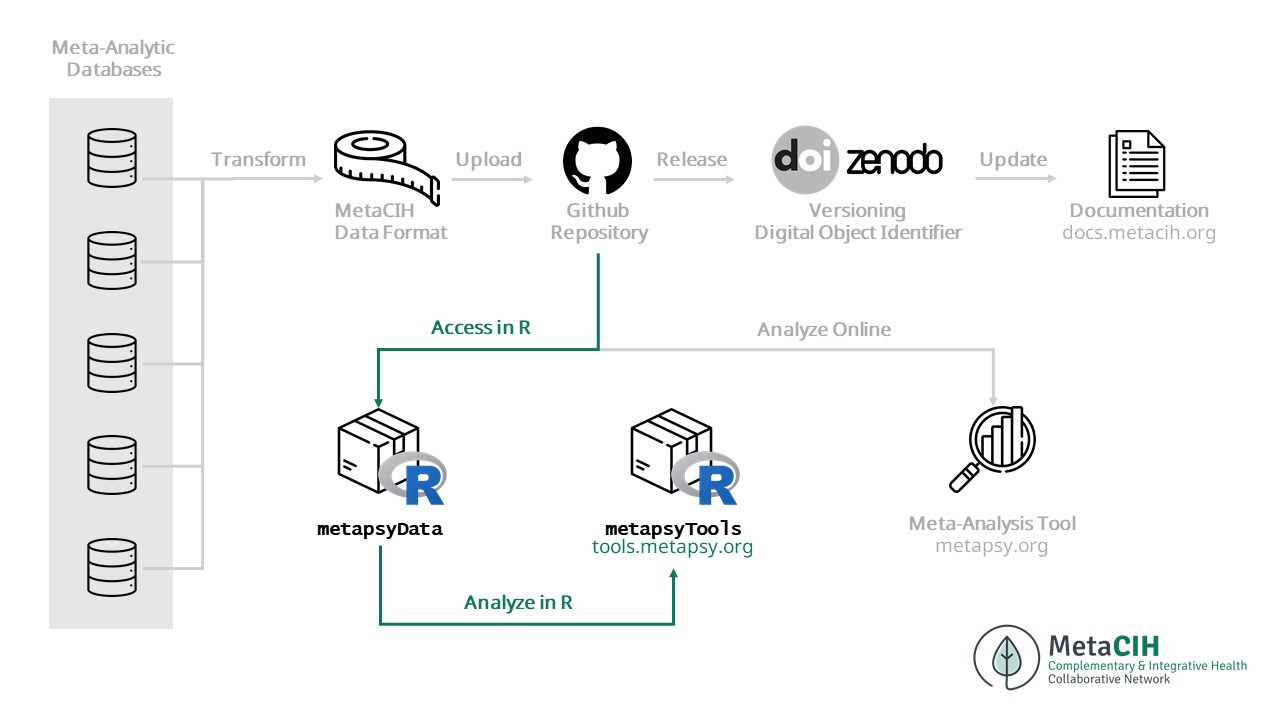
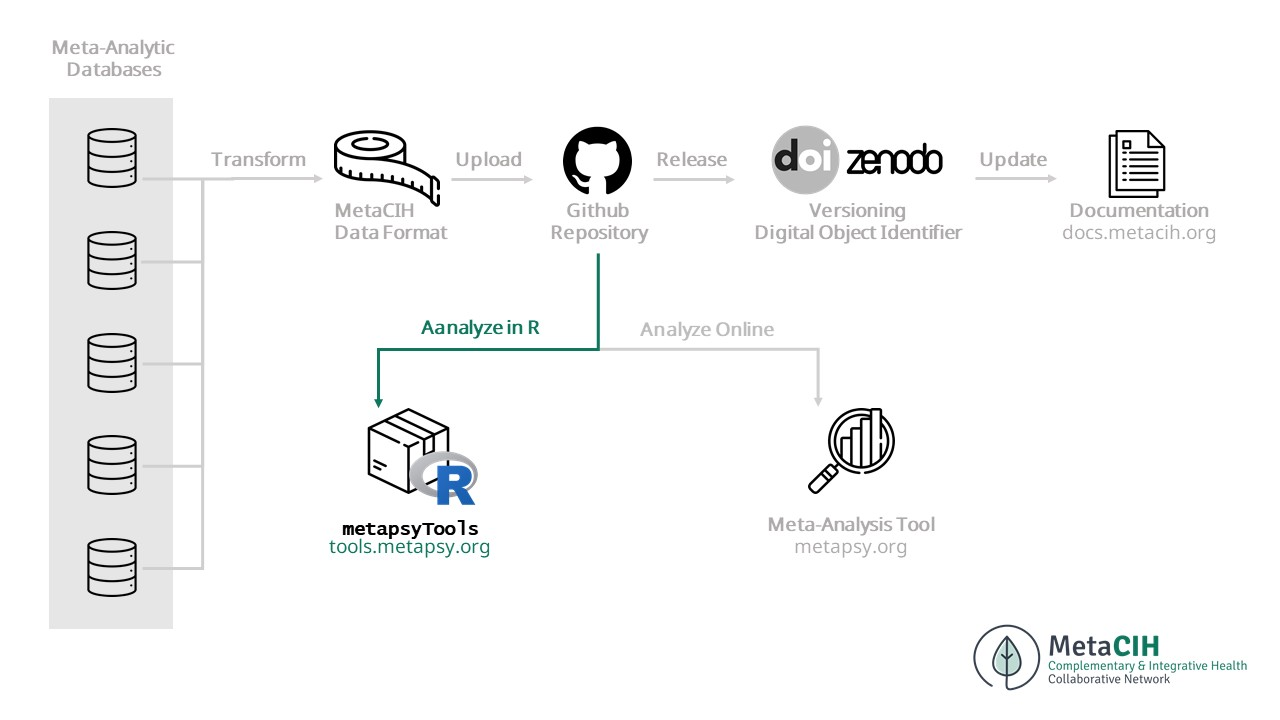
update links and images

diff --git a/public/index.html b/public/index.html
@@ -255,8 +255,8 @@
           	},
           	
           	{
-          		value: "R Packages",
-          		label: "<p> The MetaCIH infrastructure includes one R package: metapsyTools provides state-of-the-art meta-analysis functions that can be applied to databases without any prior preprocessing steps. Using the package:\n📥 the latest update or older versions of a database can be downloaded; 👉 databases can be filtered to address specific research questions; 📊 data can be synthesized using a variety of meta-analytic models; 📈 meta-regression, small-study-effect and subgroup analysis models can be applied; 📋 summary tables of the results can be generated, which can easily be copied to e.g. MS Word. metapsyTools The metapsyTools package facilitates the calculation of effect sizes (i.e. Hedges\u0026rsquo; $g$ or risk ratios) and meta-analyses for data included in MetaCIH databases (or databases adhering to the same format).\nThe package consists of two modules:\nA module to check if data follows the MetaCIH data standard, and to calculate effect sizes for all possible study comparisons (preparation module); A module to select relevant comparisons for a specific meta-analysis, calculate the results (including subgroup analyses, meta-regression, small-study-effect\/publication bias analyses), and generate tables (analysis module). The idea is to use the two modules in different contexts. For example, the preparation module can be used every time the database is updated to gather all information, calculate effect sizes, and bring the data into a format suitable for further analyses.\nThis final dataset then builds the basis for the analysis module. Researchers simply have to filter out the comparisons that are relevant for their investigation, and can then use functions of the package to run a full meta-analysis.\nThe \u0060metapsyTools\u0060 package has its own documentation page. You can find it [here](https:\/\/tools.metapsy.org\/). </p>",
+          		value: "R Package",
+          		label: "<p> The MetaCIH infrastructure includes one R package, metapsyTools, that provides state-of-the-art meta-analysis functions that can be applied to databases without any prior preprocessing steps. Using the package:\n👉 databases can be filtered to address specific research questions; 📊 data can be synthesized using a variety of meta-analytic models; 📈 meta-regression, small-study-effect and subgroup analysis models can be applied; 📋 summary tables of the results can be generated, which can easily be copied to e.g. MS Word. metapsyTools The metapsyTools package facilitates the calculation of effect sizes (i.e. Hedges\u0026rsquo; $g$ or risk ratios) and meta-analyses for data included in MetaCIH databases (or databases adhering to the same format).\nThe package consists of two modules:\nA module to check if data follows the MetaCIH data standard, and to calculate effect sizes for all possible study comparisons (preparation module); A module to select relevant comparisons for a specific meta-analysis, calculate the results (including subgroup analyses, meta-regression, small-study-effect\/publication bias analyses), and generate tables (analysis module). The idea is to use the two modules in different contexts. For example, the preparation module can be used every time the database is updated to gather all information, calculate effect sizes, and bring the data into a format suitable for further analyses.\nThis final dataset then builds the basis for the analysis module. Researchers simply have to filter out the comparisons that are relevant for their investigation, and can then use functions of the package to run a full meta-analysis.\nThe metapsyTools package has its own documentation page. You can find it here.\n</p>",
           		url:"\/\/localhost:1313\/r-packages\/r-packages\/"
           	},
           	
@@ -268,7 +268,7 @@
           	
           	{
           		value: "API",
-          		label: "<p> Databases that have been released on Github\/Zenodo can automatically be retrieved as JSON exports using the Metapsy REST Application Programming Interface (API).\nTwo GET requests are defined for the Metapsy API. The list_data request allows retrieving a summary of all available databases. The get_data request retrieves raw data and metadata of a specific database. It is also possible to access older versions by specifying the version parameter.\nAll response bodies are JSON encoded. No authentication is required to use the API. The API has a rate limit, and we kindly ask users to restrict requests to once per minute.\nFurther Information:\n📄 API Documentation (OAS3) ↗ 🕹 API Live Demo ↗ </p>",
+          		label: "<p> Databases that have been released on Github\/Zenodo can automatically be retrieved as JSON exports using the Metapsy REST Application Programming Interface (API).\nTwo GET requests are defined for the Metapsy API. The list_data request allows retrieving a summary of all available databases. The get_data request retrieves raw data and metadata of a specific database. It is also possible to access older versions by specifying the version parameter.\nAll response bodies are JSON encoded. No authentication is required to use the API. The API has a rate limit, and we kindly ask users to restrict requests to once per minute.\nFurther Information:\n📄 API Documentation (OAS3) ↗ </p>",
           		url:"\/\/localhost:1313\/r-packages\/api\/"
           	},
           	
@@ -303,7 +303,7 @@
           	},
           	
           	{
-          		value: "R Packages and API",
+          		value: "R Package and API",
           		label: "<p> After being released, all MetaCIH databases (including all released versions) can be analyzed using a designated R package, metapsyTools. We also provide a lightweight API, which can be used to export released databases and their metadata as JSON objects.\nThis documentation section provides further information on the R package.\n</p>",
           		url:"\/\/localhost:1313\/r-packages\/"
           	},
@@ -443,9 +443,9 @@ analyze all <strong>available evidence</strong> on <strong>meditation-based inte
               
                 <i class="fa-brands fa-r-project icon text-primary d-block mb-4"></i>
               
-              <h3 class="mb-3 mt-0">R Packages and API</h3>
+              <h3 class="mb-3 mt-0">R Package and API</h3>
               
-                <p class="mb-0">Technical Documentation for the MetaCIH R Packages and API</p>
+                <p class="mb-0">Technical Documentation for the MetaCIH R Package and API</p>
               
             </a>
           </div>

diff --git a/public/meta-analysis-tool/index.html b/public/meta-analysis-tool/index.html
@@ -290,12 +290,12 @@
  
 <li
   data-nav-id="//localhost:1313/r-packages/"
-  title="R Packages and API"
+  title="R Package and API"
   class="sidelist
   "
 >
   <a href="//localhost:1313/r-packages/">
-    R Packages and API
+    R Package and API
   </a>
      
 </li>
@@ -324,16 +324,18 @@
           
           <div class="content"><hr>
 <img src="/uploads/ma-tool.jpg" width="100%" style="border-radius: 5px;">
-<p>The Metapsy meta-analysis tool has been developed to make the available datasets more accessible for various stakeholders, without requiring programming skills. These graphical user interfaces allow to analyze existing versions of datasets using state-of-the-art meta-analytic methods. An overview of available tools is provided on the <a href="https://metacih.metapsy.dev/">MetaCIH website</a>.</p>
+<p>The Metapsy meta-analysis tool has been developed to make the available datasets more accessible for various stakeholders, without requiring programming skills. These graphical user interfaces allow to analyze existing versions of datasets using state-of-the-art meta-analytic methods. An overview of available tools is provided on the <a href="https://metacih.org/">MetaCIH website</a>.</p>
 <br>
 <h4 id="starting-page">Starting Page <a class="header-link" href="#starting-page">
     <svg class="fill-current o-60 hover-accent-color-light" height="22px" style="margin-bottom: 0px;" viewBox="0 0 24 24" width="22px" xmlns="http://www.w3.org/2000/svg">
         <path d="M0 0h24v24H0z" fill="none"/>
         <path fill="#878787" d="M3.9 12c0-1.71 1.39-3.1 3.1-3.1h4V7H7c-2.76 0-5 2.24-5 5s2.24 5 5 5h4v-1.9H7c-1.71 0-3.1-1.39-3.1-3.1zM8 13h8v-2H8v2zm9-6h-4v1.9h4c1.71 0 3.1 1.39 3.1 3.1s-1.39 3.1-3.1 3.1h-4V17h4c2.76 0 5-2.24 5-5s-2.24-5-5-5z"/></svg></a></h4><hr>
-<p>The starting page of each meta-analysis tool displays some basic information on the available dataset. To the right, the number of available studies and the <a href="/release/#versioning">dataset version</a> is shown.</p>
+<p>The <strong>starting page</strong> of each meta-analysis tool displays some basic information on the available dataset. To the right, the number of available studies and the <a href="/release/#versioning">dataset version</a> is shown.</p>
+<!--
 <img src="/uploads/app-1.webp" width="500" style="box-shadow: 0px 0px 10px gray; pointer-events: none;">
+ -->
 <br>
-<p>The <strong>additional information</strong> section at the bottom contains further links and information on the dataset. It also provides the link to the R <strong>script</strong> that was used to <strong>simplify the data</strong> for the online meta-analysis tool. Most datasets are simplified slightly to reduce the complexity of analyses within the app. A main step conducted in all simplification scripts is to <strong>aggregate</strong> all effect sizes within studies. This is done using the <a href="https://tools.metapsy.org/reference/runmetaanalysis"><code>runMetaAnalysis</code></a> function in <code>metapsyTools</code>, which by default assumes a constant sampling correlation of $\rho$ = 0.6 (i.e., it is assumed that multiple effect sizes collected in the same study are correlated by <em>r</em> = 0.6).</p>
+<p>The <strong>additional information</strong> section at the bottom contains further links and information on the dataset. It also provides the link to the <strong>R script</strong> that was used to <strong>simplify the data</strong> for the online meta-analysis tool. Most datasets are simplified slightly to reduce the complexity of analyses within the app. A main step conducted in all simplification scripts is to <strong>aggregate</strong> all effect sizes within studies. This is done using the <a href="https://tools.metapsy.org/reference/runmetaanalysis"><code>runMetaAnalysis</code></a> function in <code>metapsyTools</code>, which by default assumes a constant sampling correlation of $\rho$ = 0.6 (i.e., it is assumed that multiple effect sizes collected in the same study are correlated by <em>r</em> = 0.6).</p>
 
 
 <div class="notices info" ><p>The aggregation is conducted on an <strong>arm level</strong>. This ensures that multiple treatment arms within the same trial are preserved in the provided data, and that differences can be analyzed in separate subgroup analyses. Please note that this approach may not fully remove effect size dependencies when there are multi-arm trials in the data (e.g., trials that compare two psychological treatments to the same control group). It may be advisable to conduct further sensitivity analyses (e.g. using <a href="/r-packages/r-packages/#metapsytools"><code>metapsyTools</code></a>) if a strict control for potential unit-of-analysis errors is desired.</p></div>

diff --git a/public/r-packages/r-packages/index.html b/public/r-packages/r-packages/index.html
@@ -2,10 +2,10 @@
 <html lang="en-us">
   <head><script src="/livereload.js?mindelay=10&amp;v=2&amp;port=1313&amp;path=livereload" data-no-instant defer></script>
   <meta charset="utf-8" />
-  <title>R Packages</title>
+  <title>R Package</title>
   <meta name="viewport" content="width=device-width, initial-scale=1" />
   <meta name="generator" content="Hugo 0.123.0">
-  <meta name="description" content="R Packages - The MetaCIH documentation " />
+  <meta name="description" content="R Package - The MetaCIH documentation " />
 
   
   <link
@@ -139,17 +139,17 @@
     content="image/png"
   />
   
-  <meta name="twitter:title" content="R Packages" />
+  <meta name="twitter:title" content="R Package" />
   <meta
     name="twitter:description"
     content="The MetaCIH documentation"
   />
-    <meta property="og:title" content="R Packages" />
+    <meta property="og:title" content="R Package" />
 <meta property="og:description" content="The MetaCIH documentation" />
 <meta property="og:type" content="website" />
 <meta property="og:url" content="//localhost:1313/r-packages/r-packages/" />
 
- <meta name="twitter:card" content="summary"/><meta name="twitter:title" content="R Packages"/>
+ <meta name="twitter:card" content="summary"/><meta name="twitter:title" content="R Package"/>
 <meta name="twitter:description" content="The MetaCIH documentation"/>
 
 </head>
@@ -290,12 +290,12 @@
  
 <li
   data-nav-id="//localhost:1313/r-packages/"
-  title="R Packages and API"
+  title="R Package and API"
   class="sidelist
   "
 >
   <a href="//localhost:1313/r-packages/">
-    R Packages and API
+    R Package and API
   </a>
     
   <ul>
@@ -304,12 +304,12 @@
  
 <li
   data-nav-id="//localhost:1313/r-packages/r-packages/"
-  title="R Packages"
+  title="R Package"
   class="sidelist
   active"
 >
   <a href="//localhost:1313/r-packages/r-packages/">
-    R Packages
+    R Package
   </a>
    
 </li>
@@ -352,12 +352,12 @@
       </div>
       <div class="col-lg-9">
         <div class="p-lg-5 p-4 bg-white" id="content">
-          <h2 class="mb-5" id="title">R Packages</h2>
+          <h2 class="mb-5" id="title">R Package</h2>
           
           <div class="content"><hr>
-<p>The MetaCIH infrastructure includes <strong>one R package</strong>: <!-- The first package, **`metapsyData`**, allows researchers to directly access all MetaCIH databases from an R environment. The second package, --><strong><code>metapsyTools</code></strong> provides state-of-the-art meta-analysis functions that can be applied to databases without any prior preprocessing steps. <!--Collectively, these packages create an integrated meta-analysis workflow. --> Using the package:</p>
+<p>The MetaCIH infrastructure includes <strong>one R package</strong>, <!-- The first package, **`metapsyData`**, allows researchers to directly access all MetaCIH databases from an R environment. The second package, --><strong><code>metapsyTools</code></strong>, that provides state-of-the-art meta-analysis functions that can be applied to databases without any prior preprocessing steps. <!--Collectively, these packages create an integrated meta-analysis workflow. --> Using the package:</p>
+<!--* 📥 the latest update or older versions of a database can be **downloaded**;-->
 <ul>
-<li>📥 the latest update or older versions of a database can be <strong>downloaded</strong>;</li>
 <li><a href="https://emojipedia.org/backhand-index-pointing-right/">👉</a> databases can be <strong>filtered</strong> to address specific research questions;</li>
 <li><a href="https://emojipedia.org/bar-chart/">📊</a> data can be <strong>synthesized</strong> using a variety of meta-analytic models;</li>
 <li><a href="https://emojipedia.org/chart-increasing/">📈</a> meta-regression, small-study-effect and subgroup <strong>analysis models</strong> can be applied;</li>
@@ -393,7 +393,7 @@ Using the `listData()` function in `metapsyData`, it is possible to list all dat
 <!-- Databases downloaded into the R environment using `metapsyData` can be analyzed "out of the box" using the analysis module in `metapsyTools`. -->
 
 
-<div class="notices info" ><p> <!-- Like `metapsyData`, -->The `metapsyTools` package has its own documentation page. You can find it [here](https://tools.metapsy.org/). </p></div>
+<div class="notices info" ><p>The <code>metapsyTools</code> package has its own documentation page. You can find it <a href="https://tools.metapsy.org/">here</a>.</p></div>
 <br>
 </div>
           

diff --git a/public/r-packages/index.html b/public/r-packages/index.html
@@ -2,10 +2,10 @@
 <html lang="en-us">
   <head><script src="/livereload.js?mindelay=10&amp;v=2&amp;port=1313&amp;path=livereload" data-no-instant defer></script>
   <meta charset="utf-8" />
-  <title>R Packages and API</title>
+  <title>R Package and API</title>
   <meta name="viewport" content="width=device-width, initial-scale=1" />
   <meta name="generator" content="Hugo 0.123.0">
-  <meta name="description" content="R Packages and API - The MetaCIH documentation " />
+  <meta name="description" content="R Package and API - The MetaCIH documentation " />
 
   
   <link
@@ -139,18 +139,18 @@
     content="image/png"
   />
   
-  <meta name="twitter:title" content="R Packages and API" />
+  <meta name="twitter:title" content="R Package and API" />
   <meta
     name="twitter:description"
-    content="Technical Documentation for the MetaCIH R Packages and API"
+    content="Technical Documentation for the MetaCIH R Package and API"
   />
-    <meta property="og:title" content="R Packages and API" />
-<meta property="og:description" content="Technical Documentation for the MetaCIH R Packages and API" />
+    <meta property="og:title" content="R Package and API" />
+<meta property="og:description" content="Technical Documentation for the MetaCIH R Package and API" />
 <meta property="og:type" content="website" />
 <meta property="og:url" content="//localhost:1313/r-packages/" />
 
- <meta name="twitter:card" content="summary"/><meta name="twitter:title" content="R Packages and API"/>
-<meta name="twitter:description" content="Technical Documentation for the MetaCIH R Packages and API"/>
+ <meta name="twitter:card" content="summary"/><meta name="twitter:title" content="R Package and API"/>
+<meta name="twitter:description" content="Technical Documentation for the MetaCIH R Package and API"/>
 
 </head>
 
@@ -290,12 +290,12 @@
  
 <li
   data-nav-id="//localhost:1313/r-packages/"
-  title="R Packages and API"
+  title="R Package and API"
   class="sidelist
   active"
 >
   <a href="//localhost:1313/r-packages/">
-    R Packages and API
+    R Package and API
   </a>
     
   <ul>
@@ -304,12 +304,12 @@
  
 <li
   data-nav-id="//localhost:1313/r-packages/r-packages/"
-  title="R Packages"
+  title="R Package"
   class="sidelist
   "
 >
   <a href="//localhost:1313/r-packages/r-packages/">
-    R Packages
+    R Package
   </a>
    
 </li>
@@ -352,7 +352,7 @@
       </div>
       <div class="col-lg-9">
         <div class="p-lg-5 p-4 bg-white" id="content">
-          <h2 class="mb-5" id="title">R Packages and API</h2>
+          <h2 class="mb-5" id="title">R Package and API</h2>
           
           <div class="content"><hr>
 <p><img src="/uploads/computer2.jpg" style="width: 100%;height: 250px;object-fit: cover;

diff --git a/public/r-packages/api/index.html b/public/r-packages/api/index.html
@@ -290,12 +290,12 @@
  
 <li
   data-nav-id="//localhost:1313/r-packages/"
-  title="R Packages and API"
+  title="R Package and API"
   class="sidelist
   "
 >
   <a href="//localhost:1313/r-packages/">
-    R Packages and API
+    R Package and API
   </a>
     
   <ul>
@@ -304,12 +304,12 @@
  
 <li
   data-nav-id="//localhost:1313/r-packages/r-packages/"
-  title="R Packages"
+  title="R Package"
   class="sidelist
   "
 >
   <a href="//localhost:1313/r-packages/r-packages/">
-    R Packages
+    R Package
   </a>
    
 </li>
@@ -355,15 +355,16 @@
           <h2 class="mb-5" id="title">API</h2>
           
           <div class="content"><hr>
-<p>Databases that have been <a href="https://docs.metapsy.org/release/">released on Github/Zenodo</a> can automatically be retrieved as <a href="https://www.json.org/json-en.html">JSON</a> exports using the Metapsy REST Application Programming Interface (API).</p>
+<p>Databases that have been <a href="/release/">released on Github/Zenodo</a> can automatically be retrieved as <a href="https://www.json.org/json-en.html">JSON</a> exports using the Metapsy REST Application Programming Interface (API).</p>
 <p>Two <a href="https://restfulapi.net/http-methods/#get">GET requests</a> are defined for the Metapsy API. The <code>list_data</code> request allows retrieving a summary of all available databases. The <code>get_data</code> request retrieves raw data and metadata of a specific database. It is also possible to access older versions by specifying the <code>version</code> parameter.</p>
 <p>All response bodies are JSON encoded. No authentication is required to use the API. The API has a rate limit, and we kindly ask users to restrict requests to once per minute.</p>
 </br>
 <p><strong>Further Information:</strong></p>
 <ul>
 <li>📄 API Documentation (<a href="https://swagger.io/specification/">OAS3</a>) <a href="https://metapsy.org/api.html#api-docs">↗</a></li>
-<li>🕹 API Live Demo <a href="https://app.swaggerhub.com/apis-docs/t38169/metapsy/1.0.0">↗</a></li>
 </ul>
+<!--* 🕹 API Live Demo [↗](https://app.swaggerhub.com/apis-docs/t38169/metapsy/1.0.0)
+-->
 <p><br></br></p>
 </div>
           

diff --git a/public/categories/index.html b/public/categories/index.html
@@ -290,12 +290,12 @@
  
 <li
   data-nav-id="//localhost:1313/r-packages/"
-  title="R Packages and API"
+  title="R Package and API"
   class="sidelist
   "
 >
   <a href="//localhost:1313/r-packages/">
-    R Packages and API
+    R Package and API
   </a>
      
 </li>

diff --git a/public/data-preparation/format/index.html b/public/data-preparation/format/index.html
@@ -336,12 +336,12 @@
  
 <li
   data-nav-id="//localhost:1313/r-packages/"
-  title="R Packages and API"
+  title="R Package and API"
   class="sidelist
   "
 >
   <a href="//localhost:1313/r-packages/">
-    R Packages and API
+    R Package and API
   </a>
      
 </li>

diff --git a/public/data-preparation/index.html b/public/data-preparation/index.html
@@ -336,12 +336,12 @@
  
 <li
   data-nav-id="//localhost:1313/r-packages/"
-  title="R Packages and API"
+  title="R Package and API"
   class="sidelist
   "
 >
   <a href="//localhost:1313/r-packages/">
-    R Packages and API
+    R Package and API
   </a>
      
 </li>

diff --git a/public/data-preparation/metadata/index.html b/public/data-preparation/metadata/index.html
@@ -336,12 +336,12 @@
  
 <li
   data-nav-id="//localhost:1313/r-packages/"
-  title="R Packages and API"
+  title="R Package and API"
   class="sidelist
   "
 >
   <a href="//localhost:1313/r-packages/">
-    R Packages and API
+    R Package and API
   </a>
      
 </li>

diff --git a/public/data-preparation/upload/index.html b/public/data-preparation/upload/index.html
@@ -336,12 +336,12 @@
  
 <li
   data-nav-id="//localhost:1313/r-packages/"
-  title="R Packages and API"
+  title="R Package and API"
   class="sidelist
   "
 >
   <a href="//localhost:1313/r-packages/">
-    R Packages and API
+    R Package and API
   </a>
      
 </li>

diff --git a/public/databases/index.html b/public/databases/index.html
@@ -308,12 +308,12 @@
  
 <li
   data-nav-id="//localhost:1313/r-packages/"
-  title="R Packages and API"
+  title="R Package and API"
   class="sidelist
   "
 >
   <a href="//localhost:1313/r-packages/">
-    R Packages and API
+    R Package and API
   </a>
      
 </li>

diff --git a/public/databases/mbi/adm-ipd-v1.0-0/index.html b/public/databases/mbi/adm-ipd-v1.0-0/index.html
@@ -315,12 +315,12 @@
  
 <li
   data-nav-id="//localhost:1313/r-packages/"
-  title="R Packages and API"
+  title="R Package and API"
   class="sidelist
   "
 >
   <a href="//localhost:1313/r-packages/">
-    R Packages and API
+    R Package and API
   </a>
      
 </li>
